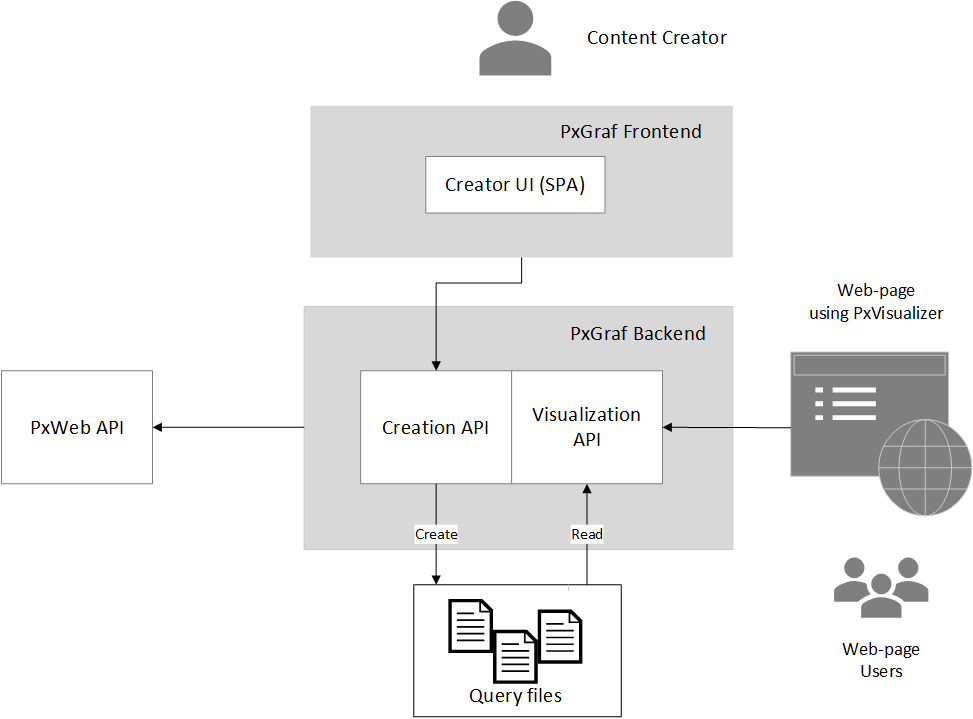
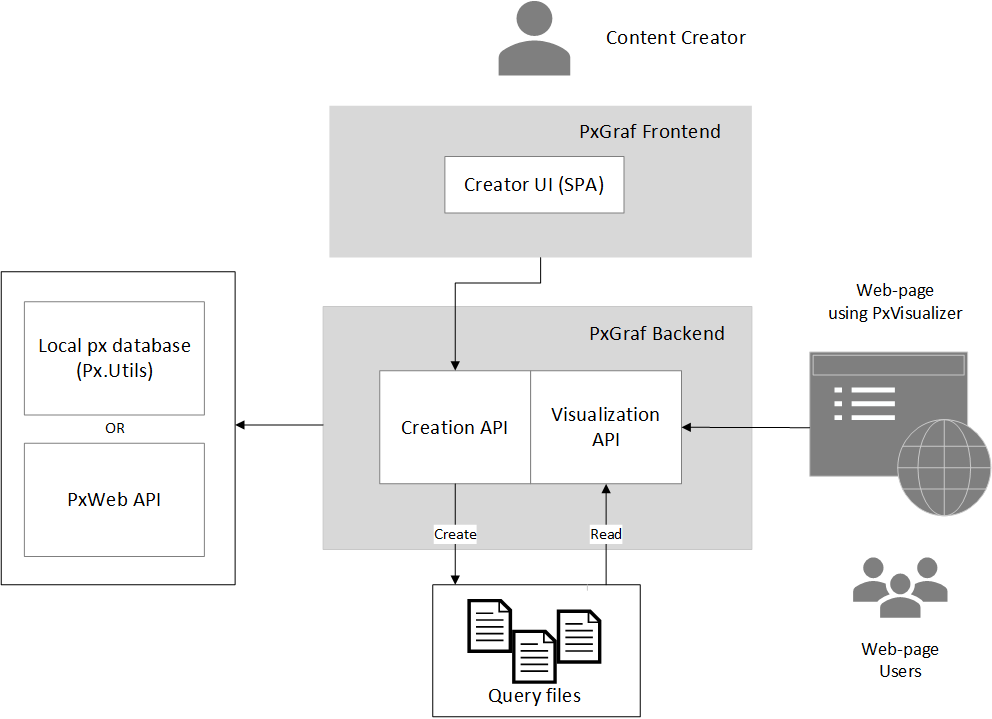
Readme update

diff --git a/docs/README.md b/docs/README.md
@@ -1,7 +1,7 @@
 # PxGraf
 
 ## Overview
-PxGraf is a tool developed and maintained by Statistics Finland (Tilastokeskus) for visualizing statistical data from Px tables using the PxWeb API. The backend, written in C# with ASP.NET Core, fetches data from the PxWeb API and processes it for visualizations and serves it via REST apis. The frontend, written in TypeScript with React, provides a user interface for selecting and previewing data for visualizations and saving them as queries. The visualizations are drawn using PxVisualizer npm package, also developed and maintained by Statistics Finland.
+PxGraf is a tool developed and maintained by Statistics Finland (Tilastokeskus) for visualizing statistical data from Px tables using the PxWeb API or local px database with Px.Utils library. The backend, written in C# with ASP.NET Core, fetches px file data from the PxWeb API or local px database using Px.Utils library, processes it for visualizations and serves it via REST apis. The frontend, written in TypeScript with React, provides a user interface for selecting and previewing data for visualizations and saving them as queries. The visualizations are drawn using PxVisualizer npm package, also developed and maintained by Statistics Finland.
 
 The software is provided as is and Statistics Finland will **not** offer any support for setting up PxGraf or solving issues related to it.
 
@@ -41,13 +41,21 @@ Configuration for the maximum header length and the maximum number of data point
 #### Language
 Configuration for the default language and the available languages in the backend.
 #### pxwebUrl
-The address of the PxWeb server.
+The address of the PxWeb server if in use.
 #### savedQueryDirectory
 The directory where saved query files are stored.
 #### arvhiveFileDirectory
 The directory where archived query files are stored.
 #### FeatureManagement
 Grants or denies access to the Creation API.
+#### LocalFileSystemDatabaseConfig
+Configuration for the local database if in use.
+#### LocalFileSystemDatabaseConfig.Enabled
+Determines whether the local database with Px.Utils or PxWeb api is used.
+#### LocalFileSystemDatabaseConfig.DatabaseRootPath
+The path to the database root directory.
+#### LocalFileSystemDatabaseConfig.Encoding
+Name of the encoding used in the database.
 
 ## Translation files
 

diff --git a/docs/API_DOCUMENTATION.md b/docs/API_DOCUMENTATION.md
@@ -6,8 +6,7 @@ Creation API provides endpoints for getting information about the databases and 
 | Function Name | API Route | Parameters | Returns |
 |---------------|-----------|------------|---------|
 | GetDataBaseListingAsync | GET: data-bases/{*dbPath*} | dbPath: The path to the database level provided in the url.<br>queryParameters: Dictionary of query parameters represented by key-value pair of strings. Used by this endpoint to determined the preferred language of the response item. | List of DataBaseListingItem objects that can represent either a database, subfolder or a Px table. |
-| GetLanguagesAsync | GET: languages | None | List of language code strings that are supported by the backend and supported by one or more databases. |
-| GetCubeMetaAsync | GET: cube-meta/{*tablePath*} | tablePath: The path to the table provided in the url. | CubeMeta object that contains the metadata of the table. |
+| GetCubeMetaAsync | GET: cube-meta/{*tablePath*} | tablePath: The path to the table provided in the url. | MatrixMetadata object that contains the metadata of the table. |
 | ValidateTableMetaData | GET: validate-table-metadata/{*tablePath*} | tablePath: The path to the table provided in the url. | TableMetaValidationResult object that contains the validation result of the table metadata. |
 | GetVariableFilterResultAsync | POST: filter-dimension | filterRequest: FilterRequest object that contains the table path and selected filters for each variable. | A dictionary of variable codes and their value codes that are available based on the filter request. |
 | GetDefaultHeaderAsync | POST: default-header | input: CubeQuery object that contains the table path and information about the selected variables. | A multi language string object that contains the default header for each available language. |

diff --git a/docs/LOCAL_SETUP.md b/docs/LOCAL_SETUP.md
@@ -9,7 +9,7 @@
 
 ## PxWeb
 
-PxGraf requires a connection to PxWeb api for database access.
+If PxWeb api is to be used, PxGraf requires a connection to PxWeb api for database access.
 
 Development setup can be configured to use a local instance of PxWeb or a remote instance running on a server.
 
@@ -18,6 +18,9 @@ PxWeb can be ran locally, which can be useful for debugging and easier access to
 The source code for PxWeb can be found here: https://github.com/statisticssweden/PxWeb.git
 PxGraf uses the PxWeb API to fetch data from the Px databases. Additional testing databases will be nessessary for development since the default testing database
 that comes with pxweb lacks the necessary metadata (content variables and time variables) for building visualizations with PxGraf.
+
+## Running PxGraf using local px database with Px.Utils
+PxGraf can be configured to run using the local px database using Px.Utils instead of a PxWeb server. Px.Utils provides a fast way to access Px files on the local px database. In order to use Px.Utils, a Px file database must be created on the local system. This can be done using the PxWeb admin tools. To enable PxGraf to use Px.Utils, the appsettings.json file must be updated with the path to the Px file database (LocalFileSystemDatabaseConfig.DatabaseRootPath) and LocalFileSystemDatabaseConfig.Enabled must be set to true. LocalFileSystemDatabaseConfig.Encoding should match the encoding of the Px and alias files in the database.
 
 ## Backend
 

diff --git a/docs/PRODUCTION_SETUP.md b/docs/PRODUCTION_SETUP.md
@@ -1,6 +1,6 @@
 # Production setup
 
-Because technical details or requirements of the target anvironment will vary, here are some high-level examples to give an idea how the PxGraf can be set up.
+Because technical details or requirements of the target environment will vary, here are some high-level examples to give an idea how the PxGraf can be set up.
 
 Statistics Finland will **not** offer any support for the production setup of PxGraf. The following examples are provided as is and are not guaranteed to work in all environments.
 
